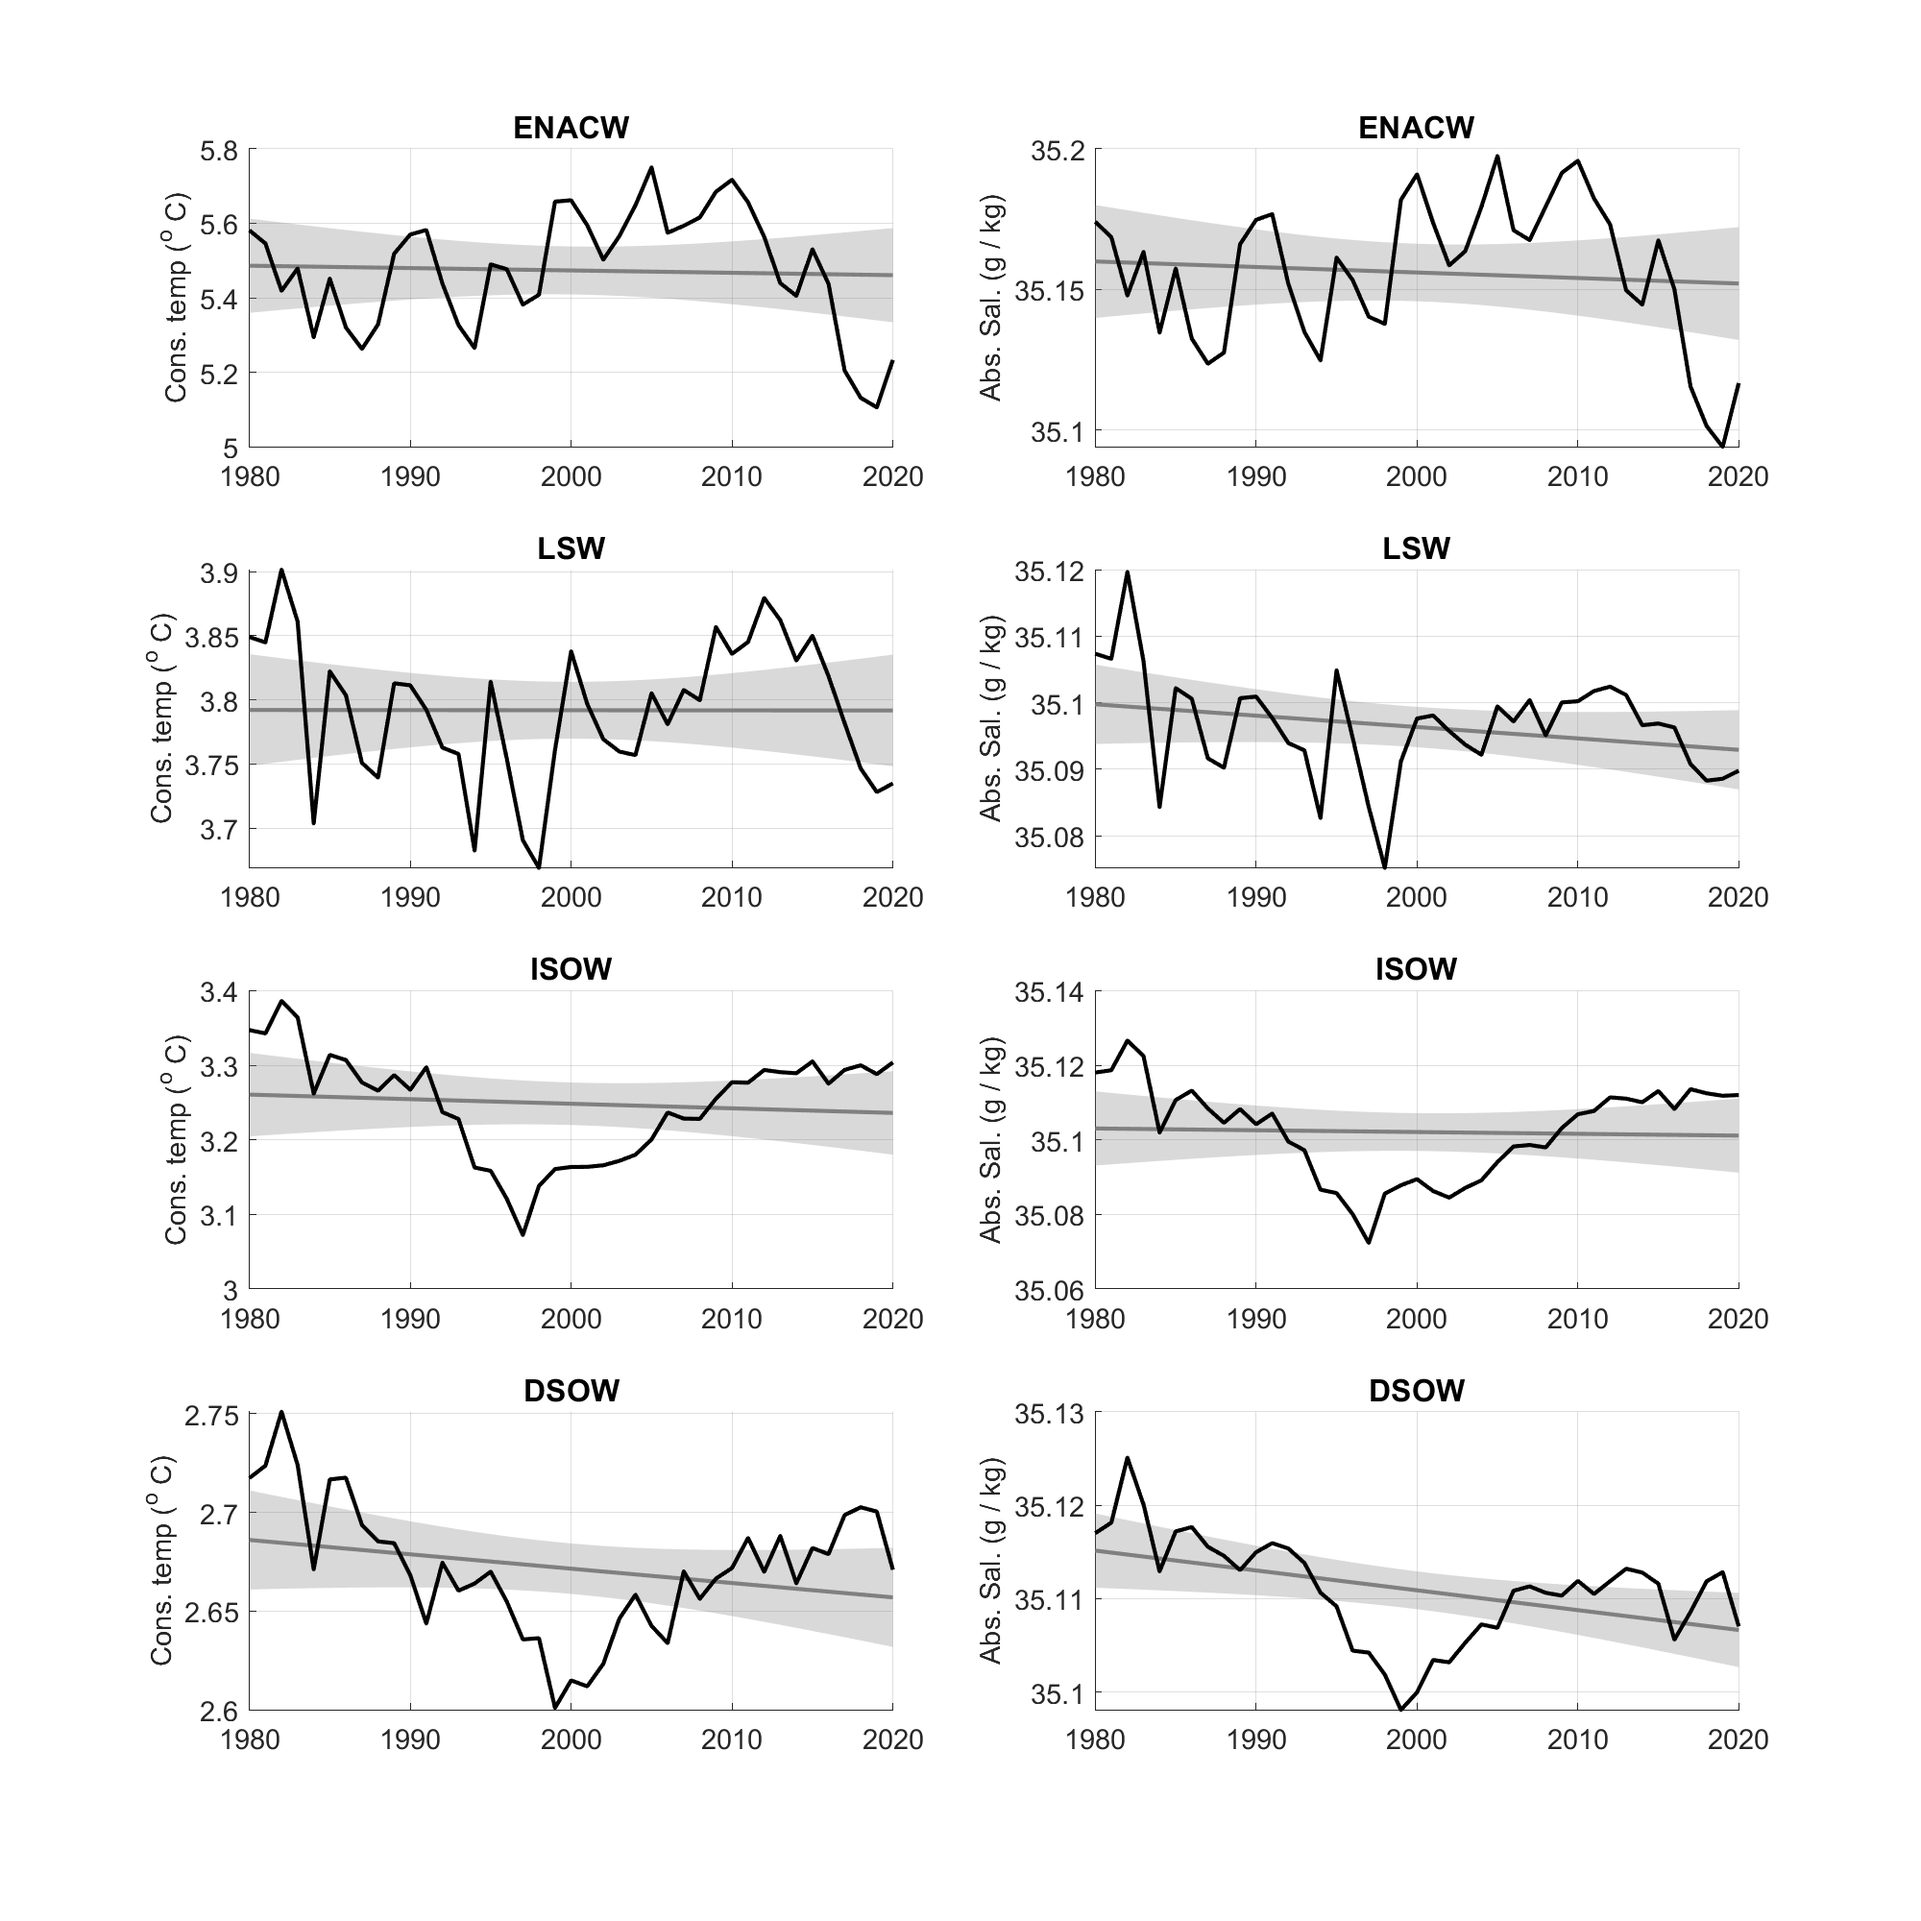
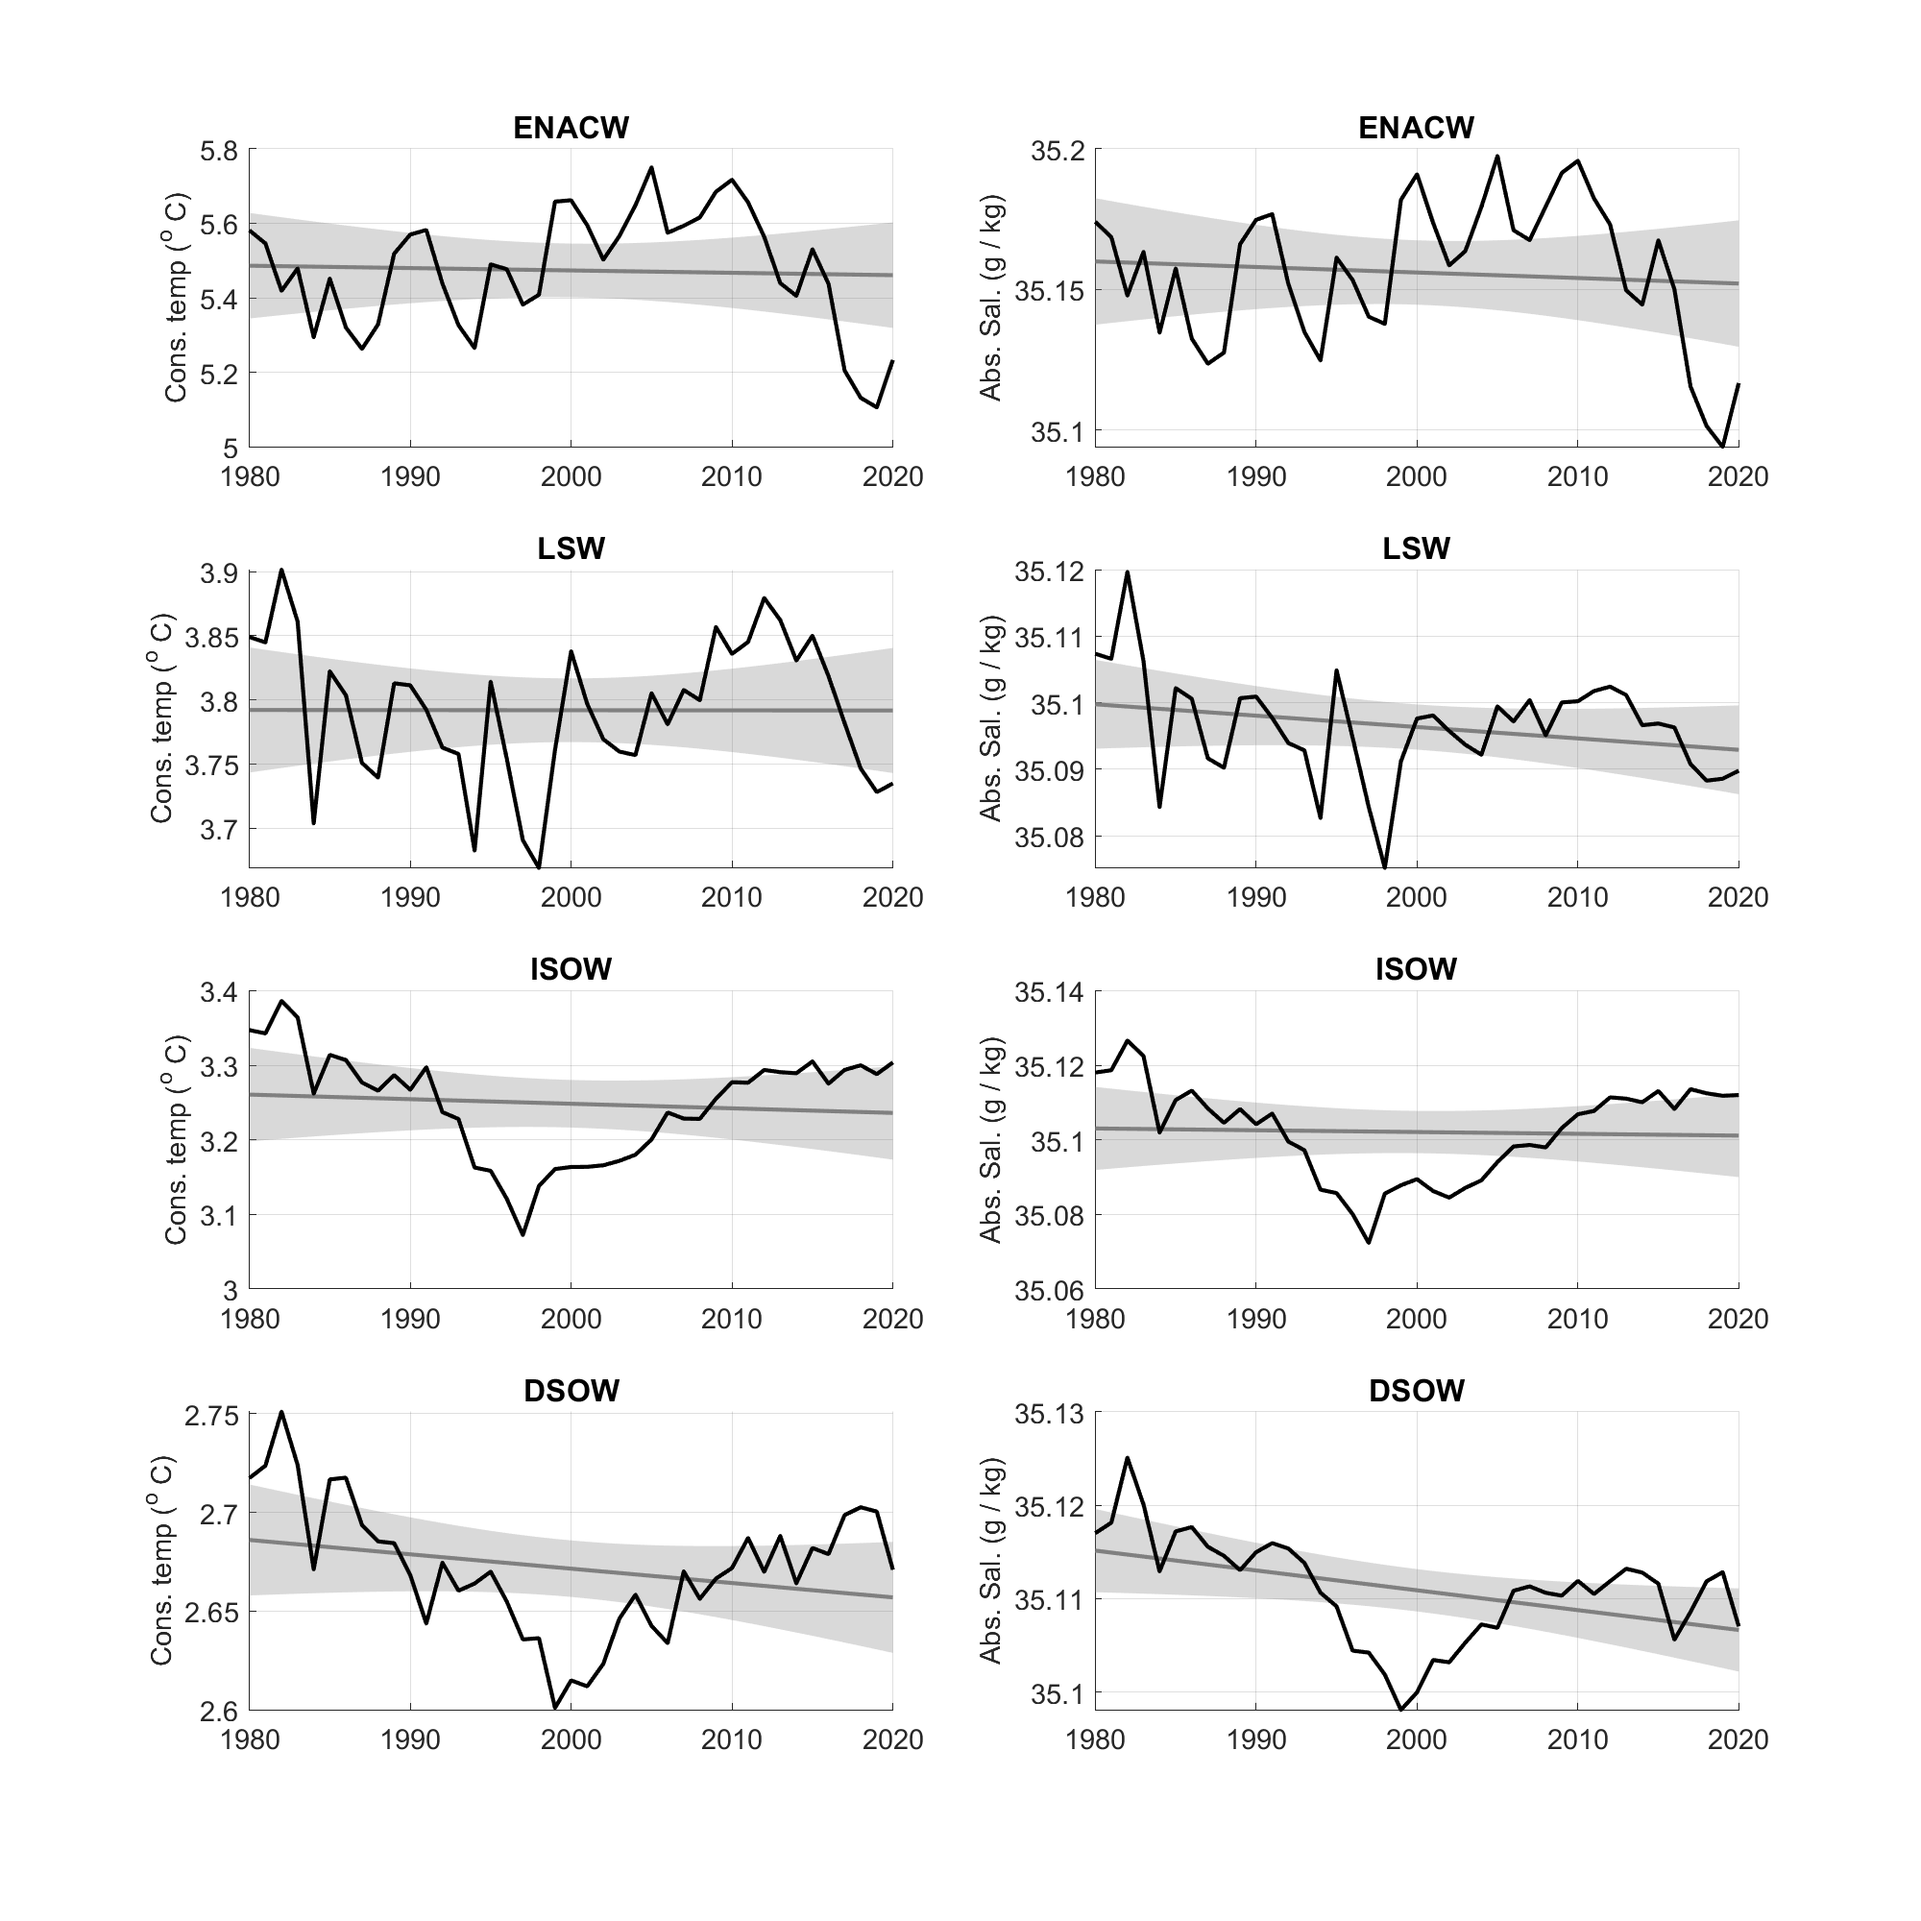
Updated stats generation code for the timeseries plotting

diff --git a/plot4_timeseries_INALT20/p4_plot_timeseries_worker.m b/plot4_timeseries_INALT20/p4_plot_timeseries_worker.m
@@ -98,7 +98,7 @@ SA_timeseries = CT_timeseries;
 
 
 global_time_start = 0;
-for yy = 1:20 % length(year) % for each year netcdf
+for yy = 1:length(year) % for each year netcdf
     if region <= 9
         filename = ['1_INALT20.L46-KFS119_1m_' num2str(year(yy)) '0101_' num2str(year(yy)) '1231_reg0' num2str(region) '_grid_T.nc'];
     else
@@ -115,7 +115,7 @@ for yy = 1:20 % length(year) % for each year netcdf
     T(T==0) = nan;
     S(S==0) = nan;
     
-    Yn_filename = ['I:\iAtlantic_overflow\INALT20\gamma_n\gamma_n\' filename];
+    Yn_filename = ['I:\iAtlantic_overflow\INALT20\gamma_n\' filename];
     gamma_n = ncread(Yn_filename,'gamma_n');
     
 %         %% Subset by polygon?  % Not currently required in INALT20
@@ -274,8 +274,8 @@ for ww = 1:num_timeseries % for each water mass timeseries
     CT_grad = b(1); CT_intercept = b(2);
     
     % Note that an anticorrelation also returns positive values of R-squared.
-    %rsquared = stats(1);
-    %pval = stats(3);
+    % rsquared = stats(1);
+    % pval = stats(3);
     
     % Get plot confidence intervals
     beta = [b(2) b(1)];
@@ -292,21 +292,25 @@ for ww = 1:num_timeseries % for each water mass timeseries
     alphaup =  1-0.05/2; %1-0.05/2;
     t_crit_y = tinv(alphaup,deof_y); %find t_crit through matlab function
     
-    yresid1 = y - yfit1;
-    S2_e = (1/(deof_y-2)) * sum(yresid1.^2); % (eq. 1.33 on page 48 of internet doc)
-    S_a = sqrt(S2_e / (sum((y-nanmean(y)).^2))); % (eq. 1.34 on page 48)
-    % SJ NOTE: THE ABOVE COUPLE OF LINES SEEMS TO RESULT IN VALUES TOO
-    % LARGE TO RESULT IN TEST PASSES. INVESTIGATE! (see https://o2.eas.gatech.edu/courses/EAS2655/week5.pdf)
+    yresid = y - yfit1; % get residuals
+    yresid1 = sum(yresid.^2); % sum of the squared residuals
+    ytotal1 = (length(y)-1) * var(y); % n * variance
+    
+    % adjusted coefficient of determination
+    rsq_y = 1 - yresid1/ytotal1*(length(y)-1)/(length(y)-2);
+    %rsq_y = rsquared;
     
     % significance test, t-test, 95% interval, H_0: R=0.0
-    t1 = beta(2)/S_a; % (eq. 135 on page 48)
-    
-    % if 1: test is significant; 0: test is not significant
+    t1 = sqrt((rsq_y*(deof_y-2))/(1-rsq_y));
     if t_crit_y<abs(t1)
         CT_significant = 1;
     else
-        CT_significant=0;
+        CT_significant = 0;
     end
+    
+    clear y_xc deof_y alphaup t_crit_y yresid yresid1 ytotal1 rsq_y t1
+    
+
     
     
     
@@ -339,28 +343,27 @@ for ww = 1:num_timeseries % for each water mass timeseries
     alphaup =  1-0.05/2; %1-0.05/2;
     t_crit_y = tinv(alphaup,deof_y); %find t_crit through matlab function
     
-    yresid1 = y - yfit1;
-    S2_e = (1/(deof_y-2)) * sum(yresid1.^2); % (eq. 1.33 on page 48 of internet doc)
-    S_a = sqrt(S2_e / (sum((y-nanmean(y)).^2))); % (eq. 1.34 on page 48)
-    % SJ NOTE: THE ABOVE COUPLE OF LINES SEEMS TO RESULT IN VALUES TOO
-    % LARGE TO RESULT IN TEST PASSES. INVESTIGATE! (see https://o2.eas.gatech.edu/courses/EAS2655/week5.pdf)
+    yresid = y - yfit1; % get residuals
+    yresid1 = sum(yresid.^2); % sum of the squared residuals
+    ytotal1 = (length(y)-1) * var(y); % n * variance
+    
+    % adjusted coefficient of determination
+    rsq_y = 1 - yresid1/ytotal1*(length(y)-1)/(length(y)-2);
+    %rsq_y = rsquared;    
     
     % significance test, t-test, 95% interval, H_0: R=0.0
-    t1 = beta(2)/S_a; % (eq. 135 on page 48)
-    
-    % if 1: test is significant; 0: test is not significant
+    t1 = sqrt((rsq_y*(deof_y-2))/(1-rsq_y));
     if t_crit_y<abs(t1)
         SA_significant = 1;
     else
-        SA_significant=0;
+        SA_significant = 0;
     end
     
-    
+    clear y_xc deof_y alphaup t_crit_y yresid yresid1 ytotal1 rsq_y t1
     
     %% Report stats to csv
-    % [water mass number CT_gradient(deg/yr) CT_intercept CT_significant SA_gradient(gkg-1/yr) SA_intercept SA_significant]
-    M(ww,:) = [ww CT_grad CT_intercept CT_significant SA_grad SA_intercept SA_significant];
-    % M(ww,:) = [ww CT_grad CT_intercept SA_grad SA_intercept];
+    % [water mass number CT_gradient(deg/decade) CT_significant SA_gradient(gkg-1/decade) SA_significant]
+    M(ww,:) = [ww CT_grad.*10 CT_significant SA_grad.*10 SA_significant];
     
 end
 

diff --git a/plot4_timeseries_EN4/p4_plot_timeseries_worker.m b/plot4_timeseries_EN4/p4_plot_timeseries_worker.m
@@ -237,8 +237,8 @@ for ww = 1:num_timeseries % for each water mass timeseries
     CT_grad = b(1); CT_intercept = b(2);
     
     % Note that an anticorrelation also returns positive values of R-squared.
-    %rsquared = stats(1);
-    %pval = stats(3);
+    % rsquared = stats(1);
+    % pval = stats(3);
     
     % Get plot confidence intervals
     beta = [b(2) b(1)];
@@ -255,21 +255,25 @@ for ww = 1:num_timeseries % for each water mass timeseries
     alphaup =  1-0.05/2; %1-0.05/2;
     t_crit_y = tinv(alphaup,deof_y); %find t_crit through matlab function
     
-    yresid1 = y - yfit1;
-    S2_e = (1/(deof_y-2)) * sum(yresid1.^2); % (eq. 1.33 on page 48 of internet doc)
-    S_a = sqrt(S2_e / (sum((y-nanmean(y)).^2))); % (eq. 1.34 on page 48)
-    % SJ NOTE: THE ABOVE COUPLE OF LINES SEEMS TO RESULT IN VALUES TOO
-    % LARGE TO RESULT IN TEST PASSES. INVESTIGATE! (see https://o2.eas.gatech.edu/courses/EAS2655/week5.pdf)
+    yresid = y - yfit1; % get residuals
+    yresid1 = sum(yresid.^2); % sum of the squared residuals
+    ytotal1 = (length(y)-1) * var(y); % n * variance
+    
+    % adjusted coefficient of determination
+    rsq_y = 1 - yresid1/ytotal1*(length(y)-1)/(length(y)-2);
+    %rsq_y = rsquared;
     
     % significance test, t-test, 95% interval, H_0: R=0.0
-    t1 = beta(2)/S_a; % (eq. 135 on page 48)
-    
-    % if 1: test is significant; 0: test is not significant
+    t1 = sqrt((rsq_y*(deof_y-2))/(1-rsq_y));
     if t_crit_y<abs(t1)
         CT_significant = 1;
     else
-        CT_significant=0;
+        CT_significant = 0;
     end
+    
+    clear y_xc deof_y alphaup t_crit_y yresid yresid1 ytotal1 rsq_y t1
+    
+
     
     
     
@@ -302,28 +306,27 @@ for ww = 1:num_timeseries % for each water mass timeseries
     alphaup =  1-0.05/2; %1-0.05/2;
     t_crit_y = tinv(alphaup,deof_y); %find t_crit through matlab function
     
-    yresid1 = y - yfit1;
-    S2_e = (1/(deof_y-2)) * sum(yresid1.^2); % (eq. 1.33 on page 48 of internet doc)
-    S_a = sqrt(S2_e / (sum((y-nanmean(y)).^2))); % (eq. 1.34 on page 48)
-    % SJ NOTE: THE ABOVE COUPLE OF LINES SEEMS TO RESULT IN VALUES TOO
-    % LARGE TO RESULT IN TEST PASSES. INVESTIGATE! (see https://o2.eas.gatech.edu/courses/EAS2655/week5.pdf)
+    yresid = y - yfit1; % get residuals
+    yresid1 = sum(yresid.^2); % sum of the squared residuals
+    ytotal1 = (length(y)-1) * var(y); % n * variance
+    
+    % adjusted coefficient of determination
+    rsq_y = 1 - yresid1/ytotal1*(length(y)-1)/(length(y)-2);
+    %rsq_y = rsquared;    
     
     % significance test, t-test, 95% interval, H_0: R=0.0
-    t1 = beta(2)/S_a; % (eq. 135 on page 48)
-    
-    % if 1: test is significant; 0: test is not significant
+    t1 = sqrt((rsq_y*(deof_y-2))/(1-rsq_y));
     if t_crit_y<abs(t1)
         SA_significant = 1;
     else
-        SA_significant=0;
+        SA_significant = 0;
     end
     
-    
+    clear y_xc deof_y alphaup t_crit_y yresid yresid1 ytotal1 rsq_y t1
     
     %% Report stats to csv
-    % [water mass number CT_gradient(deg/yr) CT_intercept CT_significant SA_gradient(gkg-1/yr) SA_intercept SA_significant]
-    M(ww,:) = [ww CT_grad CT_intercept CT_significant SA_grad SA_intercept SA_significant];
-    % M(ww,:) = [ww CT_grad CT_intercept SA_grad SA_intercept];
+    % [water mass number CT_gradient(deg/decade) CT_significant SA_gradient(gkg-1/decade) SA_significant]
+    M(ww,:) = [ww CT_grad.*10 CT_significant SA_grad.*10 SA_significant];
     
 end
 

diff --git a/plot4_timeseries_V20/p4_plot_timeseries_worker.m b/plot4_timeseries_V20/p4_plot_timeseries_worker.m
@@ -239,8 +239,8 @@ for ww = 1:num_timeseries % for each water mass timeseries
     CT_grad = b(1); CT_intercept = b(2);
     
     % Note that an anticorrelation also returns positive values of R-squared.
-    %rsquared = stats(1);
-    %pval = stats(3);
+    % rsquared = stats(1);
+    % pval = stats(3);
     
     % Get plot confidence intervals
     beta = [b(2) b(1)];
@@ -257,21 +257,25 @@ for ww = 1:num_timeseries % for each water mass timeseries
     alphaup =  1-0.05/2; %1-0.05/2;
     t_crit_y = tinv(alphaup,deof_y); %find t_crit through matlab function
     
-    yresid1 = y - yfit1;
-    S2_e = (1/(deof_y-2)) * sum(yresid1.^2); % (eq. 1.33 on page 48 of internet doc)
-    S_a = sqrt(S2_e / (sum((y-nanmean(y)).^2))); % (eq. 1.34 on page 48)
-    % SJ NOTE: THE ABOVE COUPLE OF LINES SEEMS TO RESULT IN VALUES TOO
-    % LARGE TO RESULT IN TEST PASSES. INVESTIGATE! (see https://o2.eas.gatech.edu/courses/EAS2655/week5.pdf)
+    yresid = y - yfit1; % get residuals
+    yresid1 = sum(yresid.^2); % sum of the squared residuals
+    ytotal1 = (length(y)-1) * var(y); % n * variance
+    
+    % adjusted coefficient of determination
+    rsq_y = 1 - yresid1/ytotal1*(length(y)-1)/(length(y)-2);
+    %rsq_y = rsquared;
     
     % significance test, t-test, 95% interval, H_0: R=0.0
-    t1 = beta(2)/S_a; % (eq. 135 on page 48)
-    
-    % if 1: test is significant; 0: test is not significant
+    t1 = sqrt((rsq_y*(deof_y-2))/(1-rsq_y));
     if t_crit_y<abs(t1)
         CT_significant = 1;
     else
-        CT_significant=0;
+        CT_significant = 0;
     end
+    
+    clear y_xc deof_y alphaup t_crit_y yresid yresid1 ytotal1 rsq_y t1
+    
+
     
     
     
@@ -304,28 +308,27 @@ for ww = 1:num_timeseries % for each water mass timeseries
     alphaup =  1-0.05/2; %1-0.05/2;
     t_crit_y = tinv(alphaup,deof_y); %find t_crit through matlab function
     
-    yresid1 = y - yfit1;
-    S2_e = (1/(deof_y-2)) * sum(yresid1.^2); % (eq. 1.33 on page 48 of internet doc)
-    S_a = sqrt(S2_e / (sum((y-nanmean(y)).^2))); % (eq. 1.34 on page 48)
-    % SJ NOTE: THE ABOVE COUPLE OF LINES SEEMS TO RESULT IN VALUES TOO
-    % LARGE TO RESULT IN TEST PASSES. INVESTIGATE! (see https://o2.eas.gatech.edu/courses/EAS2655/week5.pdf)
+    yresid = y - yfit1; % get residuals
+    yresid1 = sum(yresid.^2); % sum of the squared residuals
+    ytotal1 = (length(y)-1) * var(y); % n * variance
+    
+    % adjusted coefficient of determination
+    rsq_y = 1 - yresid1/ytotal1*(length(y)-1)/(length(y)-2);
+    %rsq_y = rsquared;    
     
     % significance test, t-test, 95% interval, H_0: R=0.0
-    t1 = beta(2)/S_a; % (eq. 135 on page 48)
-    
-    % if 1: test is significant; 0: test is not significant
+    t1 = sqrt((rsq_y*(deof_y-2))/(1-rsq_y));
     if t_crit_y<abs(t1)
         SA_significant = 1;
     else
-        SA_significant=0;
+        SA_significant = 0;
     end
     
-    
+    clear y_xc deof_y alphaup t_crit_y yresid yresid1 ytotal1 rsq_y t1
     
     %% Report stats to csv
-    % [water mass number CT_gradient(deg/yr) CT_intercept CT_significant SA_gradient(gkg-1/yr) SA_intercept SA_significant]
-    M(ww,:) = [ww CT_grad CT_intercept CT_significant SA_grad SA_intercept SA_significant];
-    % M(ww,:) = [ww CT_grad CT_intercept SA_grad SA_intercept];
+    % [water mass number CT_gradient(deg/decade) CT_significant SA_gradient(gkg-1/decade) SA_significant]
+    M(ww,:) = [ww CT_grad.*10 CT_significant SA_grad.*10 SA_significant];
     
 end
 

diff --git a/plot4_timeseries_INALT20/Timeseries_plot_wrapper_script_RUNME.m b/plot4_timeseries_INALT20/Timeseries_plot_wrapper_script_RUNME.m
@@ -4,7 +4,7 @@ addpath functions
 addpath(genpath('../other_functions'));
 addpath('I:\iAtlantic_overflow\INALT20\INALT20_JRA_OMIP\INALT20_JRA_OMIP'); % <-  data location
 
-regions = [7 8]; % [7 8 9 10 11 12]; 
+regions = [7 8 9 10 11 12]; 
 for aa= 1:length(regions)
     region = regions(aa); % 2 % 7 % 8
     p4_plot_timeseries_worker(region)
